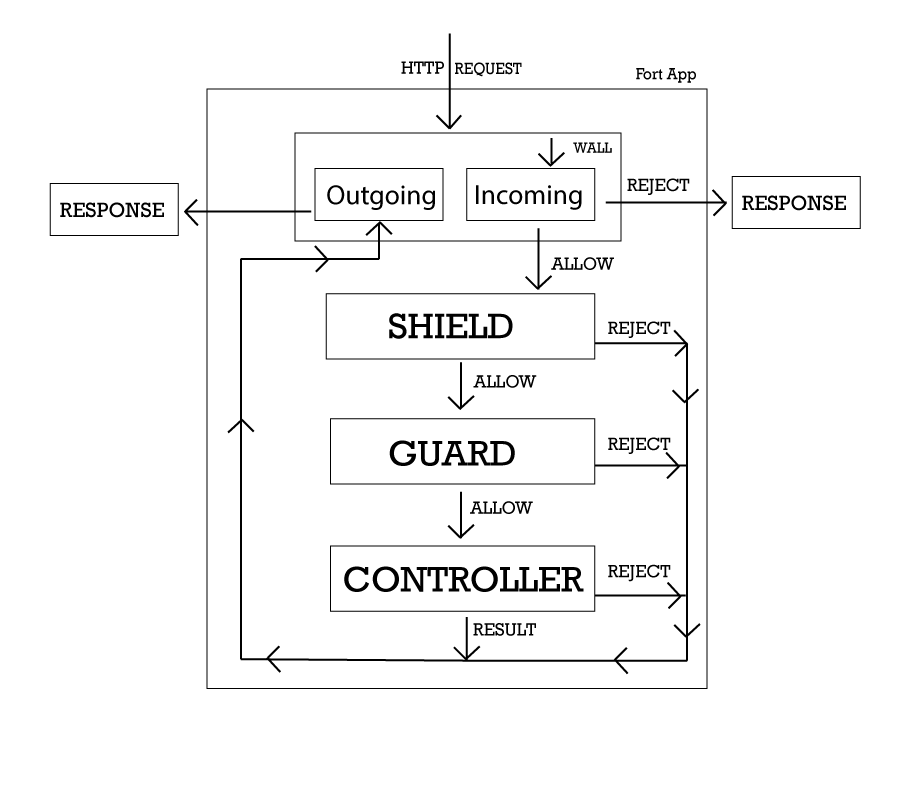
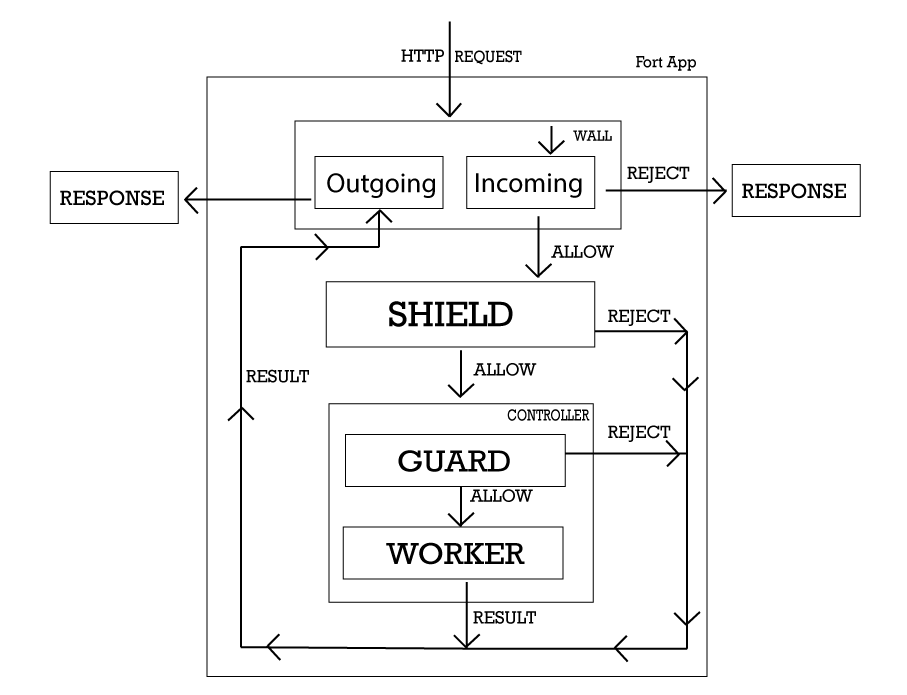
updated docs

diff --git a/docs/tutorial/components.md b/docs/tutorial/components.md
@@ -4,7 +4,7 @@ Keywords: "components, modularize, app, fortjs, node"
 Description: "Description about components of fortjs"
 ---
 
-Components are most important part of fort application. It helps you to modularize your app.
+Components are most important part of fort application. They are independent & every component has its own lifecycle and scope. It helps you to modularize your app & reutilize codes.
 
 There are three types of components - 
 
@@ -22,7 +22,7 @@ There are three types of components -
 
 <ul>
     <li>
-    When a http request comes to your app - it has to go through sequence of components i.e <a href="/tutorial/wall">Wall</a>, <a target="_blank" href="/tutorial/shield">Shield</a> & <a target="_blank" href="/tutorial/guard">Guard</a> and if everyone allows then request is transferred to controller where the actual resource is present.
+    When a http request comes to your app - it has to go through sequence of components i.e <a href="/tutorial/wall">Wall</a>, <a target="_blank" href="/tutorial/shield">Shield</a> & <a target="_blank" href="/tutorial/guard">Guard</a> and if everyone allows then request is transferred to Worker inside <a target="_blank" href="/tutorial/controller">Controller</a> where the actual resource is present.
     </li>
     <li>The Http Request has to first go through component <a href="/tutorial/wall">Wall</a>. The incoming event of wall is called and if wall 
         <ul>
@@ -38,9 +38,9 @@ There are three types of components -
         </ul>
     </li>
     <li>
-        After <a target="_blank" href="/tutorial/shield">Shield</a> allows - the request is sent to <a target="_blank" href="/tutorial/guard">Guard</a>  & if guard
+        After <a target="_blank" href="/tutorial/shield">Shield</a> allows - the request is allowed to go inside <a target="_blank" href="/tutorial/controller">Controller</a> & control is transferred to <a target="_blank" href="/tutorial/guard">Guard</a> & if guard
         <ul>
-            <li>Allows - It is sent to Controller.</li>
+            <li>Allows - It is sent to Worker where the actual resource is present.</li>
             <li> Rejects - The result is considered as final result. The result has to go through wall outgoing event and finally http response is sent.</li>
         </ul>
     </li>
@@ -50,9 +50,11 @@ There are three types of components -
 # Important points
 <br>
 
-* It is not necessary to create any components. But it is highly recommended to use components since components helps to modularize your app into small dedicated features making your code cleaner, reutilizable & testable.
+* It is not necessary to create any components, you can have just Controller and Worker. But it is highly recommended to use components since components helps to modularize your app into small dedicated features making your code cleaner, reutilizable & testable.
 
-* We can also do some works inside the component and pass the result from one component to another.  
+* Here we saw Components are being used to block the request, but it can be also used to do some work and pass the result from one component to another. Check out particular component to know more. 
+
+e.g - The validation of data, extracting some information like ip address & passing from one component to another etc.
 
 <style>
 li{

diff --git a/docs/tutorial/session.md b/docs/tutorial/session.md
@@ -14,37 +14,29 @@ import { Controller, DefaultWorker, textResult, viewResult } from "fortjs";
 export class DefaultController extends Controller {
     @DefaultWorker()
     async default() {
-        try {
-            // check if session exist
-            const isSessionExist = await this.session.isExist('userId');
+        // check if session exist
+        const isSessionExist = await this.session.isExist('userId');
 
-            // add value to session
-            await this.session.set('userId', 45);
+        // add value to session
+        await this.session.set('userId', 45);
 
-            // get session value
-            const userIdFromSession = await this.session.get('userId');
+        // get session value
+        const userIdFromSession = await this.session.get('userId');
 
-            // remove session
-            await this.session.remove('session_name');
+        // remove session
+        await this.session.remove('session_name');
 
-            // set multiple session at a time
-            this.session.setMany([{
-                key: 'user_id',
-                value: 1
-            }, {
-                key: 'name',
-                value: 'ujjwal gupta'
-            }])
+        // set multiple session at a time
+        this.session.setMany([{
+            key: 'user_id',
+            value: 1
+        }, {
+            key: 'name',
+            value: 'ujjwal gupta'
+        }])
 
-            const result = await viewResult('controller:default,action:default');
-            return result;
-        } catch (ex) {
-            console.log(ex);
-            // handle exception and show user a good message.
-            // save this ex in a file or db, so that you can know what's the issue and where
-            const result = await textResult(`Our server is busy right now. Please try later.`);
-            return result;
-        }
+        const result = await viewResult('controller:default,action:default');
+        return result;
     }
 }
 ```

diff --git a/docs/tutorial/authentication.md b/docs/tutorial/authentication.md
@@ -14,15 +14,8 @@ let's consider that our app has a default controller and it can be accessed by a
 export class DefaultController extends Controller {
     @DefaultWorker()
     async default() {
-        try {
-            const result = await viewResult('controller:default,action:default');
-            return result;
-        } catch (ex) {
-            console.log(ex);
-            // handle exception and show user a good message.
-            const result = await textResult(`Our server is busy right now. Please try later.`);
-            return result;
-        }
+        const result = await viewResult('controller:default,action:default');
+        return result;
     }
 
     @Worker([HTTP_METHOD.Get])
@@ -77,17 +70,12 @@ Let's consider that we want to restrict at controller level and for this we need
 import { Shield, textResult,  redirectResult } from "fortjs";
 export class AuthenticationShield extends Shield {
     async protect() {
-        try {
-            const isExist = await this.session.isExist('userId');
-            if (exist) { // user is authenticated so allow
-                return null;
-            } else { //user is not authenticated, so redirect to login page
-                return redirectResult("/default/login");
-            }
-        } catch (ex) {
-            // log the error
-            // return  some good message
-            return textResult("Our Server is busy right now, we are sorry for inconvenience. Please try later.")
+        
+        const isExist = await this.session.isExist('userId');
+        if (exist) { // user is authenticated so allow
+            return null;
+        } else { //user is not authenticated, so redirect to login page
+            return redirectResult("/default/login");
         }
     }
 }

diff --git a/docs/tutorial/cookie.md b/docs/tutorial/cookie.md
@@ -15,29 +15,22 @@ import { HttpCookie } from "fortjs";
 export class DefaultController extends Controller {
     @DefaultWorker()
     async default() {
-        try {
-            // check exist
-            const isCookieExist = this.cookie.isExist('cookie_name');
+        
+        // check exist
+        const isCookieExist = this.cookie.isExist('cookie_name');
 
-            // get cookie
-            const cookie = this.cookie.getCookie('cookie_name');
+        // get cookie
+        const cookie = this.cookie.getCookie('cookie_name');
 
-            //add cookie
-            const newCookie = new HttpCookie('new_cookie','cookie_value');
-            this.cookie.addCookie(newCookie);
+        //add cookie
+        const newCookie = new HttpCookie('new_cookie','cookie_value');
+        this.cookie.addCookie(newCookie);
 
-            //remove cookie
-            this.cookie.removeCookie('cookie_name');
+        //remove cookie
+        this.cookie.removeCookie('cookie_name');
 
-            const result = await viewResult('controller:default,action:default');
-            return result;
-        } catch (ex) {
-            console.log(ex);
-            // handle exception and show user a good message.
-            // save this ex in a file or db, so that you can know what's the issue and where
-            const result = await textResult(`Our server is busy right now. Please try later.`);
-            return result;
-        }
+        const result = await viewResult('controller:default,action:default');
+        return result;
     }
 }
 ```

diff --git a/docs/tutorial/shield.md b/docs/tutorial/shield.md
@@ -8,7 +8,7 @@ Shiled is security layer on top of Section (Controller). It controls whether a r
 
 e.g - Consider a case - where a controller "Admin" is only allowed if the request is authenticated. You can create a shield which will check for the conditions and if it does not satisfy the conditions, you can just reject it.
 
-There can be multiple shield for a controller & every shield is called when a request wants to access the particular controller.
+There can be multiple shield for a controller & every shield is called when a request wants to access the particular controller in the same order as they are defined.
 
 A shiled has following member - 
 
@@ -18,7 +18,7 @@ A shiled has following member -
 * Session - [session](/tutorial/session)
 * Query string data - [query](/tutorial/query)
 * Data from other components - [data](/tutorial/data)
-* Target Worker Name - [workerName][#]
+* Target Worker Name - [workerName](#)
 
 <br>
 # Creating shield

diff --git a/docs/tutorial/guard.md b/docs/tutorial/guard.md
@@ -4,7 +4,7 @@ Keywords: "guard, component, types, fortjs, node"
 Description: "Description about guard component in fortjs"
 ---
 
-Guard is security layer on top of Worker. It contols whether a request should be allowed to call the **Worker**.
+Guard is security layer on top of Worker which means it is called after controller is initiated. It contols whether a request should be allowed to call the **Worker**.
 
 The guard is useful for - 
 * Validation of data. 
@@ -36,8 +36,7 @@ Guard is a class which extends the class "Guard" from fortjs.
 
 ```
 import { Guard, HttpResult, MIME_TYPE, HTTP_STATUS_CODE } from "fortjs";
-import {isEmail, isLength, isIn} from "validator"
-import { User } from "../../models/user";
+import {isEmail, isLength, isIn} from "validator";
 
 export class ModelUserGuard extends Guard {
 
